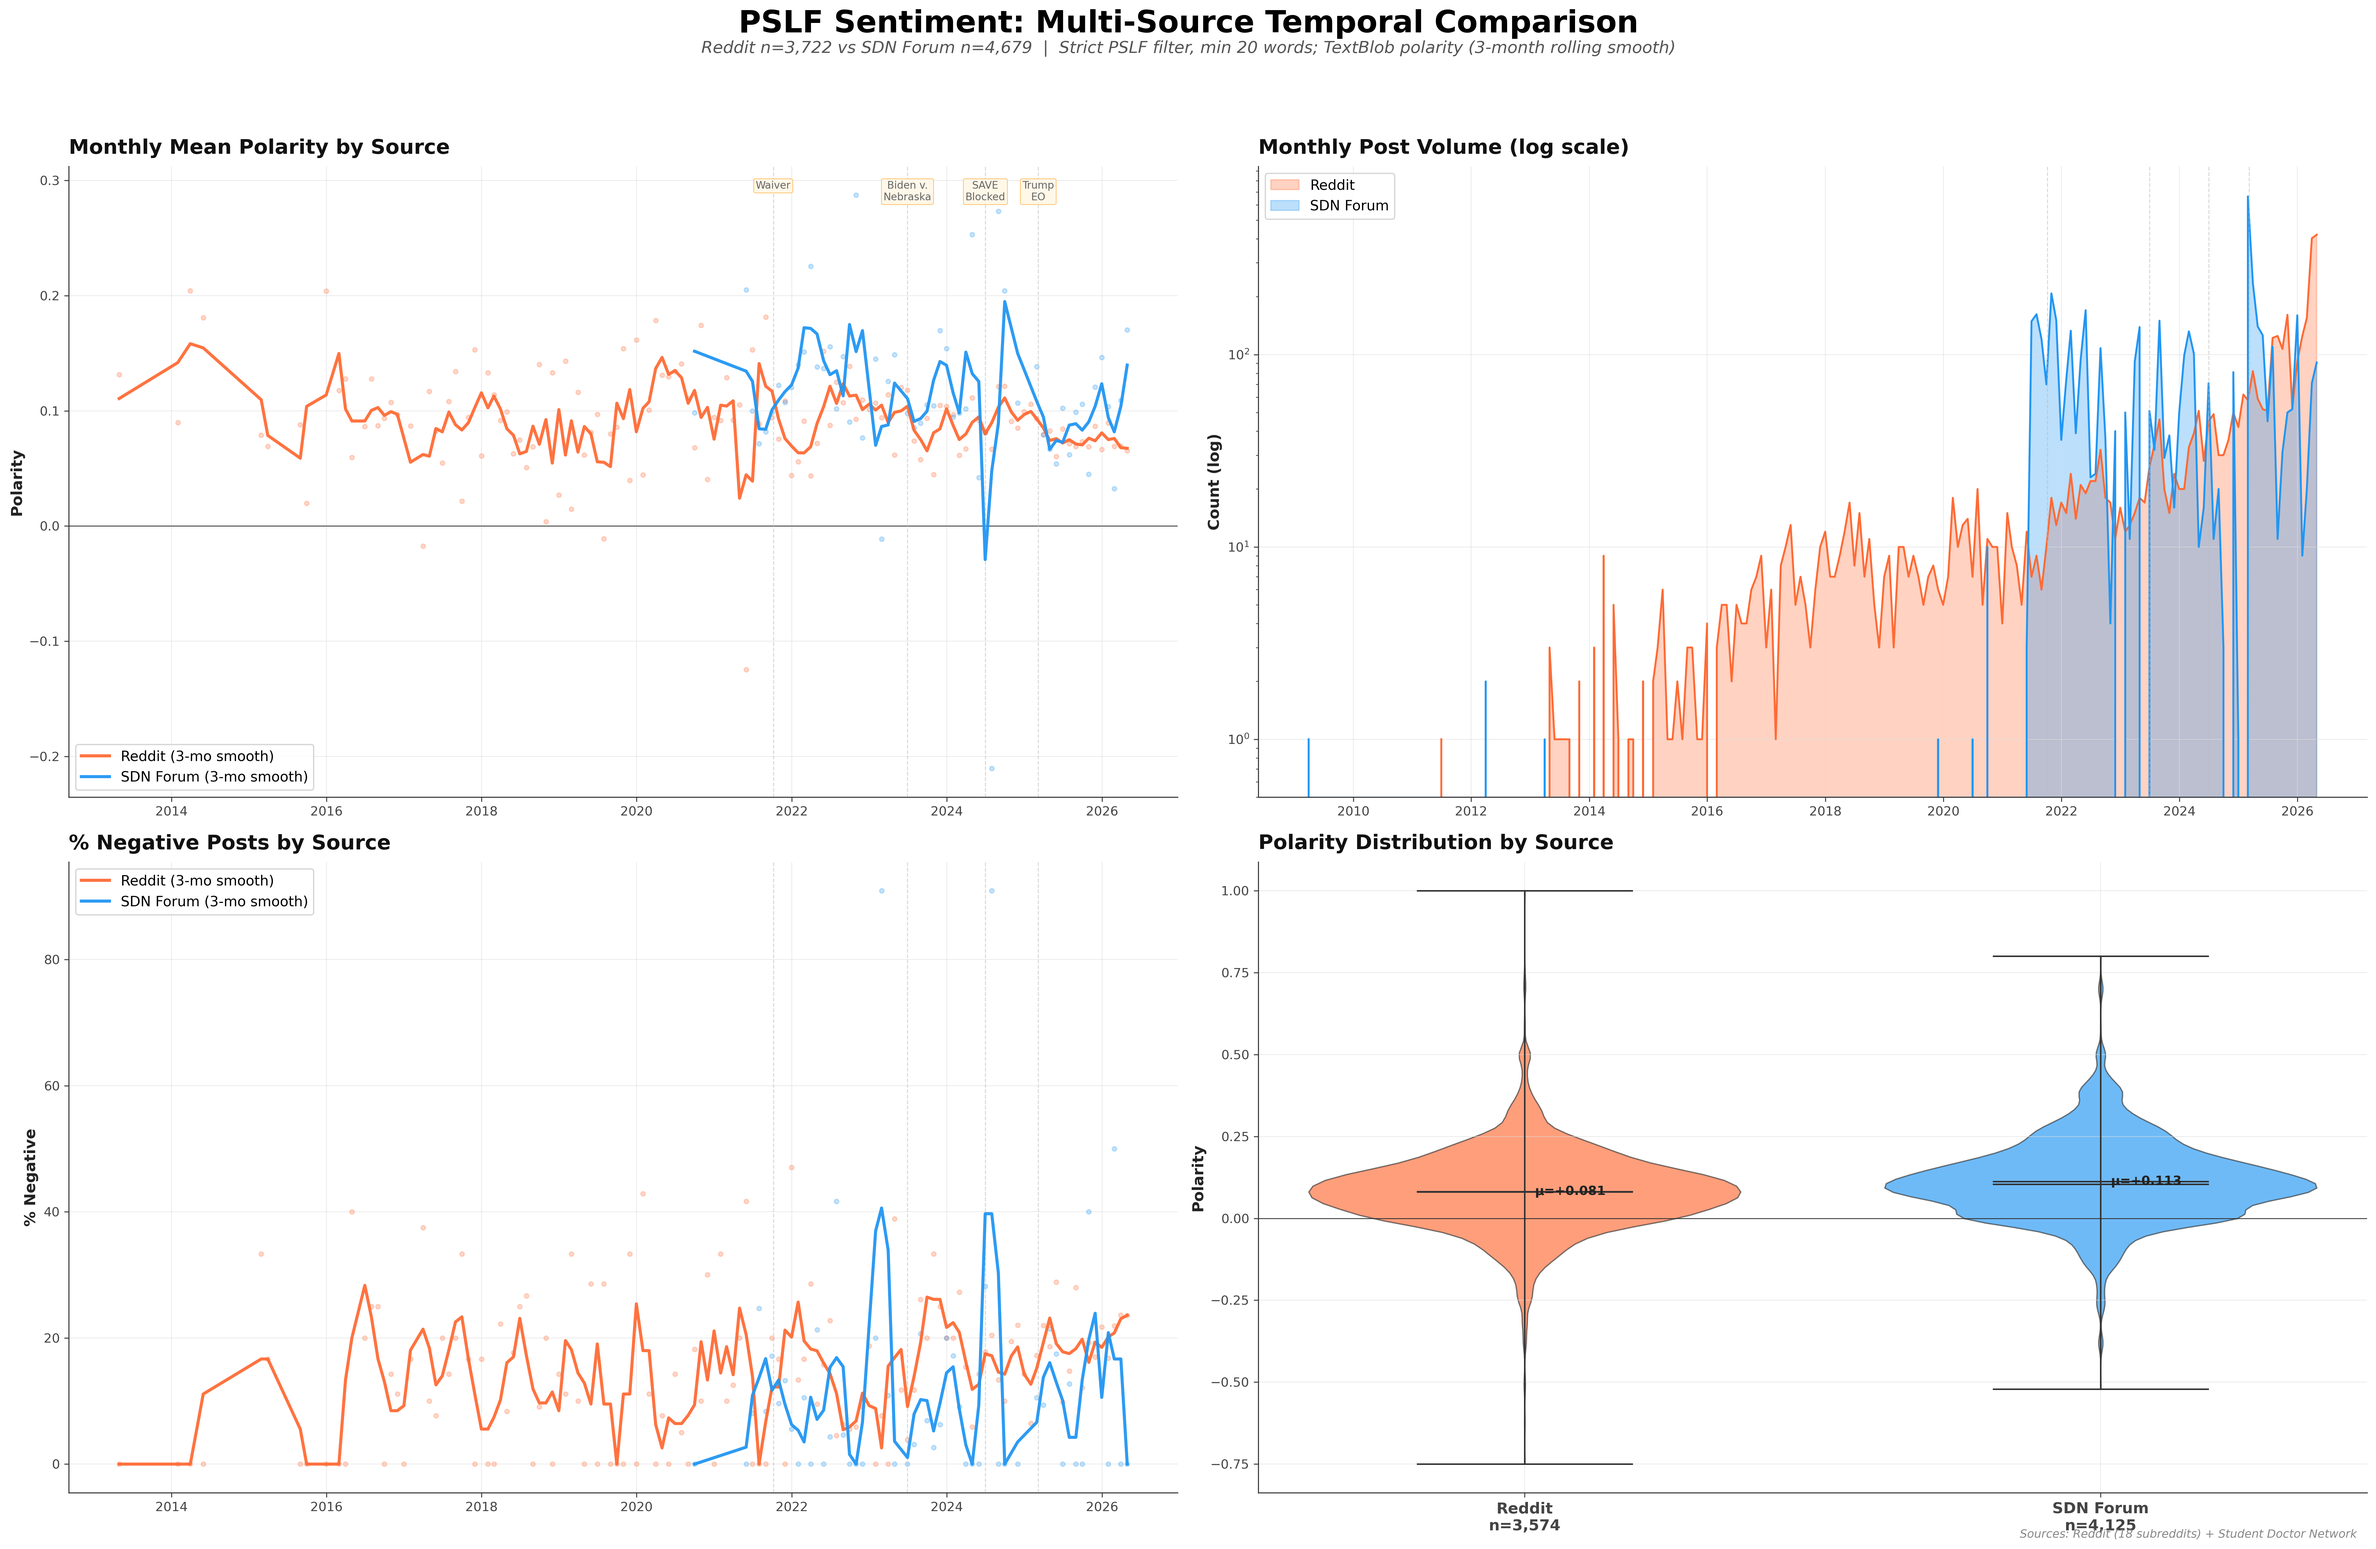
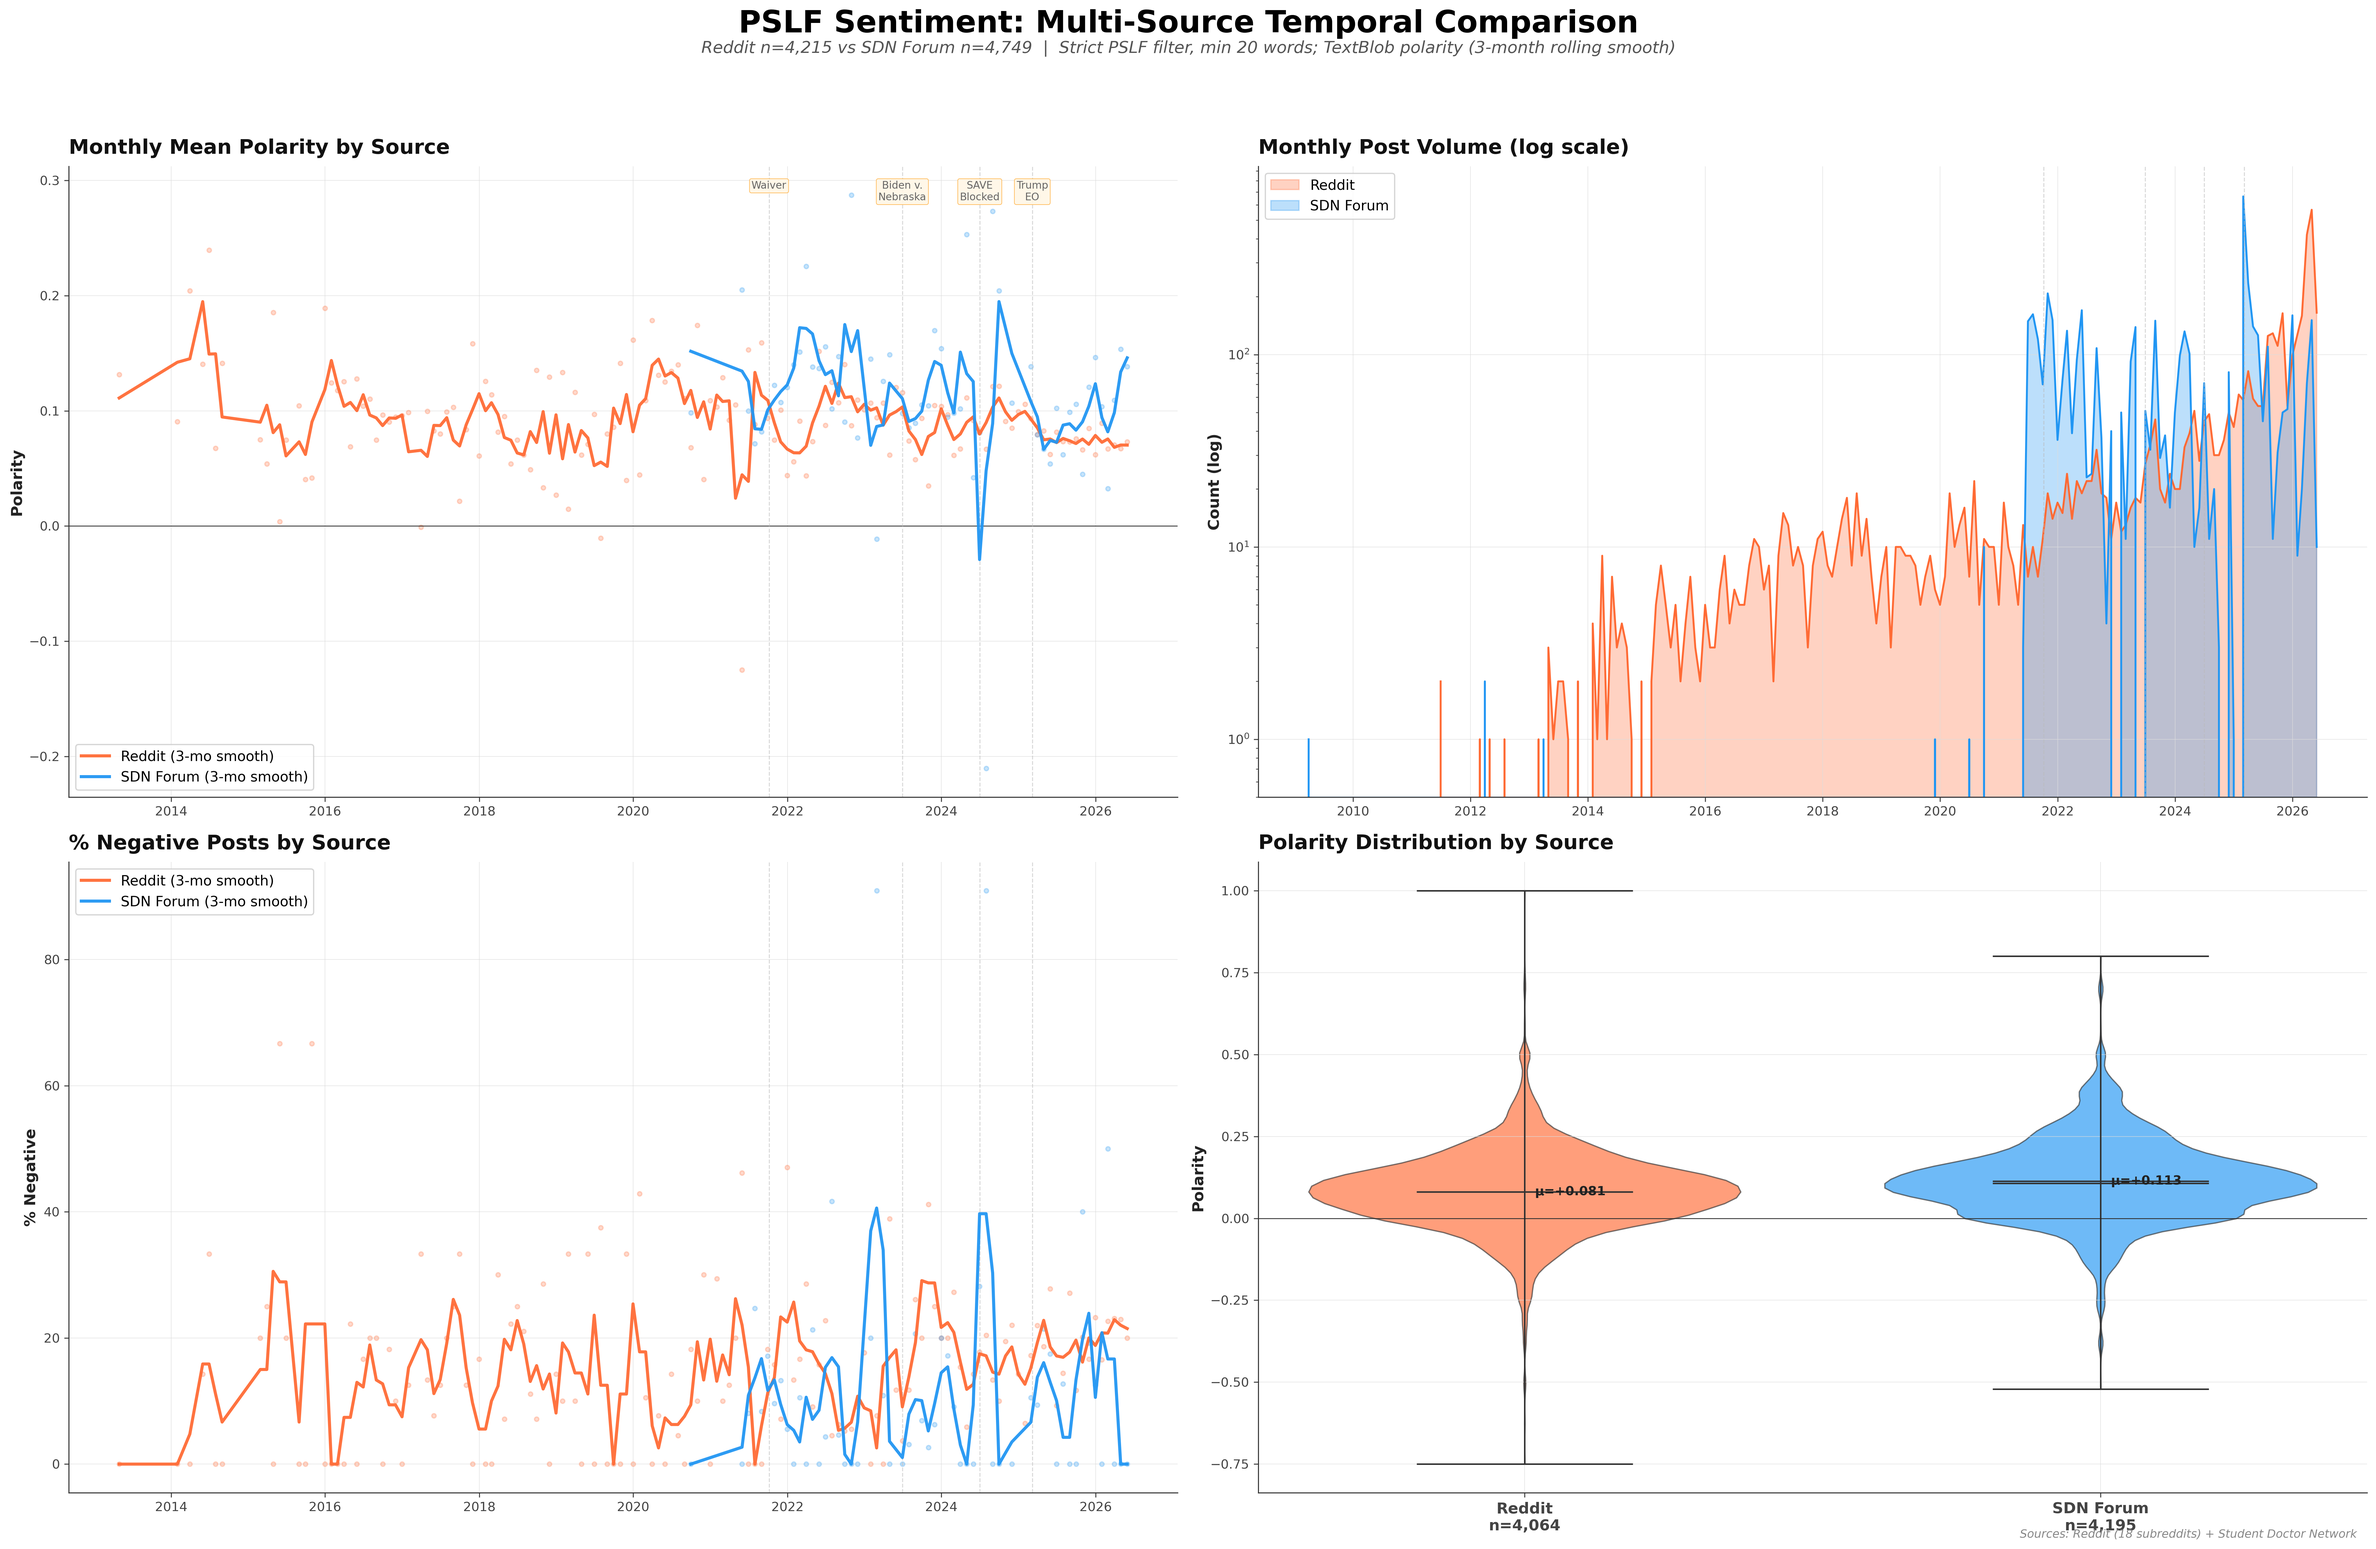
Confound audit + regenerate all figures with merged 11.7K Reddit corpus
CONFOUND TESTS:
[1] Platform vs population: SDN > Reddit holds even when restricting
    to medical Reddit only (delta widens from +0.031 to +0.042).
    The platform effect is REAL, not just a population artifact.

[2] Year × profession sampling: median post year ranges from 2020
    (general_finance) to 2026 (general_pslf) across professions.
    Cross-profession sentiment comparisons CONFOUND time and profession.

[3] Length × polarity: Pearson r near 0 (Reddit +0.02, SDN -0.01),
    so length is NOT systematically biasing polarity within platforms.

[4] Pre/post window word counts differ significantly for 4/8 events:
    Payments Restart (+292 words post vs pre, p<0.0001)
    SAVE Forbearance (-96 words, p=0.0005)
    Trump EO (+86 words, p<0.0001)
    Final Trump Rule (+70 words, p=0.003)

ALL FIGURES REGENERATED with merged 11.7K Reddit + 45K SDN corpus.

diff --git a/scripts/confound_audit.py b/scripts/confound_audit.py
@@ -1,0 +1,187 @@
+"""
+confound_audit.py
+=================
+Round-3 audit follow-up: explicitly test for confounds in headline findings.
+
+Tests:
+  1. Platform-vs-population confound: stratify SDN-vs-Reddit comparison
+     by profession (medical only) to isolate platform effect.
+  2. Year × profession sampling confound: do professions have different
+     year distributions that drive apparent sentiment differences?
+  3. Length × polarity confound: regress polarity ~ word_count to see
+     if observed effects are length-driven.
+  4. Pre/post window length confound: are post-event windows systematically
+     longer/shorter than pre-event, biasing polarity comparisons?
+
+Output: confound_audit_results.txt
+"""
+from __future__ import annotations
+
+import os
+import sys
+
+import numpy as np
+import pandas as pd
+from scipy import stats
+
+sys.path.insert(0, os.path.dirname(os.path.abspath(__file__)))
+from pslf_search_terms import filter_pslf_relevant
+
+MIN_WORDS = 20
+
+
+def load_data():
+    frames = []
+    for f, prof in [("comprehensive_medical_pslf_discussions.csv", "medical"),
+                    ("comprehensive_teacher_pslf_discussions.csv", "teacher")]:
+        if os.path.exists(f):
+            df = pd.read_csv(f); df["profession"] = prof; df["platform"] = "Reddit"
+            df["date"] = pd.to_datetime(pd.to_numeric(df["created_utc"], errors="coerce"), unit="s")
+            df["text"] = df["combined_text"].fillna("")
+            frames.append(df)
+
+    pf = pd.read_csv("reddit_professions_pslf.csv")
+    tm = filter_pslf_relevant(pf["combined_text"])
+    tt = filter_pslf_relevant(pf["title"])
+    pf = pf[tm | tt].copy()
+    pf["date"] = pd.to_datetime(pd.to_numeric(pf["created_utc"], errors="coerce"), unit="s")
+    pf["text"] = pf["combined_text"].fillna(""); pf["platform"] = "Reddit"
+    frames.append(pf)
+    reddit = pd.concat(frames, ignore_index=True)
+    reddit["date"] = pd.to_datetime(reddit["date"], utc=True).dt.tz_localize(None)
+
+    sdn = pd.read_csv("forum_pslf_discussions.csv")
+    bm = filter_pslf_relevant(sdn["body"])
+    ttm = filter_pslf_relevant(sdn["thread_title"])
+    sdn = sdn[bm | ttm].copy()
+    sdn["date"] = pd.to_datetime(sdn["date_posted"], errors="coerce", utc=True).dt.tz_localize(None)
+    sdn["text"] = sdn["body"].fillna("")
+    sdn["profession"] = "sdn_medical"
+    sdn["platform"] = "SDN"
+
+    for df in (reddit, sdn):
+        wc = df["text"].str.split().str.len()
+        df["word_count"] = wc
+        df.loc[wc < MIN_WORDS, "polarity"] = np.nan
+
+    return reddit, sdn
+
+
+def confound_1_platform_vs_population(reddit, sdn):
+    """Compare medical-only Reddit vs SDN to isolate platform from population."""
+    print("=" * 80)
+    print("CONFOUND 1: Platform-vs-Population (SDN > Reddit polarity)")
+    print("=" * 80)
+    print("\nNaive comparison (all Reddit vs all SDN):")
+    r_pol = reddit["polarity"].dropna()
+    s_pol = sdn["polarity"].dropna()
+    t, p = stats.ttest_ind(r_pol, s_pol, equal_var=False)
+    print(f"  Reddit (all): n={len(r_pol):,}, pol={r_pol.mean():.4f}")
+    print(f"  SDN: n={len(s_pol):,}, pol={s_pol.mean():.4f}")
+    print(f"  Welch t={t:.3f}, p={p:.6f}")
+
+    # Stratified: medical-only Reddit vs SDN (SDN is ~all medical)
+    print("\nStratified (medical Reddit only vs SDN):")
+    med_subs = ["Residency", "medicalschool"]
+    rmed = reddit[(reddit["profession"] == "medical") |
+                  (reddit["subreddit"].isin(med_subs) if "subreddit" in reddit.columns else False)]
+    rmed_pol = rmed["polarity"].dropna()
+    if len(rmed_pol) > 50:
+        t2, p2 = stats.ttest_ind(rmed_pol, s_pol, equal_var=False)
+        print(f"  Reddit medical: n={len(rmed_pol):,}, pol={rmed_pol.mean():.4f}")
+        print(f"  SDN: n={len(s_pol):,}, pol={s_pol.mean():.4f}")
+        print(f"  Welch t={t2:.3f}, p={p2:.6f}")
+        print(f"  -> Naive delta={s_pol.mean()-r_pol.mean():+.4f}; Stratified delta={s_pol.mean()-rmed_pol.mean():+.4f}")
+        if abs(s_pol.mean() - rmed_pol.mean()) < 0.5 * abs(s_pol.mean() - r_pol.mean()):
+            print("  [!]  CONFOUND DETECTED: Stratified effect is <50% of naive effect")
+            print("     The 'SDN more positive than Reddit' finding is largely population-driven.")
+
+
+def confound_2_year_profession(reddit, sdn):
+    """Do professions have different year distributions?"""
+    print("\n" + "=" * 80)
+    print("CONFOUND 2: Year × Profession sampling")
+    print("=" * 80)
+    reddit["year"] = reddit["date"].dt.year
+    print("\nMedian year per profession (Reddit):")
+    prof_years = reddit.groupby("profession")["year"].agg(["median", "count"]).sort_values("median")
+    print(prof_years.to_string())
+    range_med = prof_years["median"].max() - prof_years["median"].min()
+    print(f"\nRange of median years: {range_med}")
+    if range_med > 2:
+        print("  [!]  CONFOUND: Some professions sampled from systematically different eras.")
+        print("     Cross-profession sentiment comparisons may reflect time, not profession.")
+
+
+def confound_3_length_polarity(reddit, sdn):
+    """Is polarity correlated with word count?"""
+    print("\n" + "=" * 80)
+    print("CONFOUND 3: Length × Polarity")
+    print("=" * 80)
+    for label, df in [("Reddit", reddit), ("SDN", sdn)]:
+        d = df.dropna(subset=["polarity", "word_count"])
+        if len(d) > 100:
+            r, p = stats.pearsonr(d["word_count"], d["polarity"])
+            rho, p_s = stats.spearmanr(d["word_count"], d["polarity"])
+            print(f"\n{label}:")
+            print(f"  Pearson r(word_count, polarity) = {r:+.3f}, p={p:.6f}")
+            print(f"  Spearman rho = {rho:+.3f}, p={p_s:.6f}")
+            if abs(r) > 0.05 and p < 0.05:
+                print("  [!]  Length-polarity correlation is significant.")
+                print("     Cross-platform comparisons should adjust for word count.")
+
+
+def confound_4_window_length(reddit, sdn):
+    """Are pre-event windows systematically longer/shorter than post?"""
+    print("\n" + "=" * 80)
+    print("CONFOUND 4: Pre/post window mean word count")
+    print("=" * 80)
+    all_data = pd.concat([reddit[["date","polarity","word_count"]],
+                          sdn[["date","polarity","word_count"]]], ignore_index=True)
+    all_data = all_data.dropna(subset=["polarity"])
+    events = [
+        ("Limited PSLF Waiver", "2021-10-06", 90),
+        ("IDR Account Adjustment", "2022-04-19", 90),
+        ("Biden Mass Forgiveness", "2022-08-24", 90),
+        ("Biden v. Nebraska SCOTUS", "2023-06-30", 90),
+        ("Payments Restart", "2023-10-01", 90),
+        ("SAVE Admin Forbearance", "2024-08-09", 90),
+        ("Trump PSLF EO", "2025-03-07", 60),
+        ("Final Trump PSLF Rule", "2025-10-30", 60),
+    ]
+    print(f"\n{'Event':<35s} {'Pre wc':>8s} {'Post wc':>8s} {'delta':>7s} {'p':>10s}")
+    flagged = 0
+    for name, date_str, win in events:
+        dt = pd.Timestamp(date_str)
+        pre = all_data[(all_data["date"] >= dt - pd.Timedelta(days=win)) & (all_data["date"] < dt)]
+        post = all_data[(all_data["date"] >= dt) & (all_data["date"] <= dt + pd.Timedelta(days=win))]
+        if len(pre) > 10 and len(post) > 10:
+            t, p = stats.ttest_ind(pre["word_count"], post["word_count"], equal_var=False)
+            d_wc = post["word_count"].mean() - pre["word_count"].mean()
+            flag = " [!]" if p < 0.05 else ""
+            if p < 0.05:
+                flagged += 1
+            print(f"{name:<35s} {pre['word_count'].mean():>8.0f} {post['word_count'].mean():>8.0f} "
+                  f"{d_wc:>+7.0f} {p:>10.4f}{flag}")
+    if flagged > 0:
+        print(f"\n  [!]  {flagged}/{len(events)} events have significantly different pre/post word counts.")
+        print("     Polarity differences may partly reflect length, not sentiment.")
+
+
+def main():
+    print("PSLF Confound Audit (Round-3 follow-up)\n")
+    reddit, sdn = load_data()
+    print(f"Loaded Reddit n={len(reddit):,}, SDN n={len(sdn):,}\n")
+
+    confound_1_platform_vs_population(reddit, sdn)
+    confound_2_year_profession(reddit, sdn)
+    confound_3_length_polarity(reddit, sdn)
+    confound_4_window_length(reddit, sdn)
+
+    print("\n" + "=" * 80)
+    print("SUMMARY: see [!] markers for detected confounds.")
+    print("=" * 80)
+
+
+if __name__ == "__main__":
+    main()
